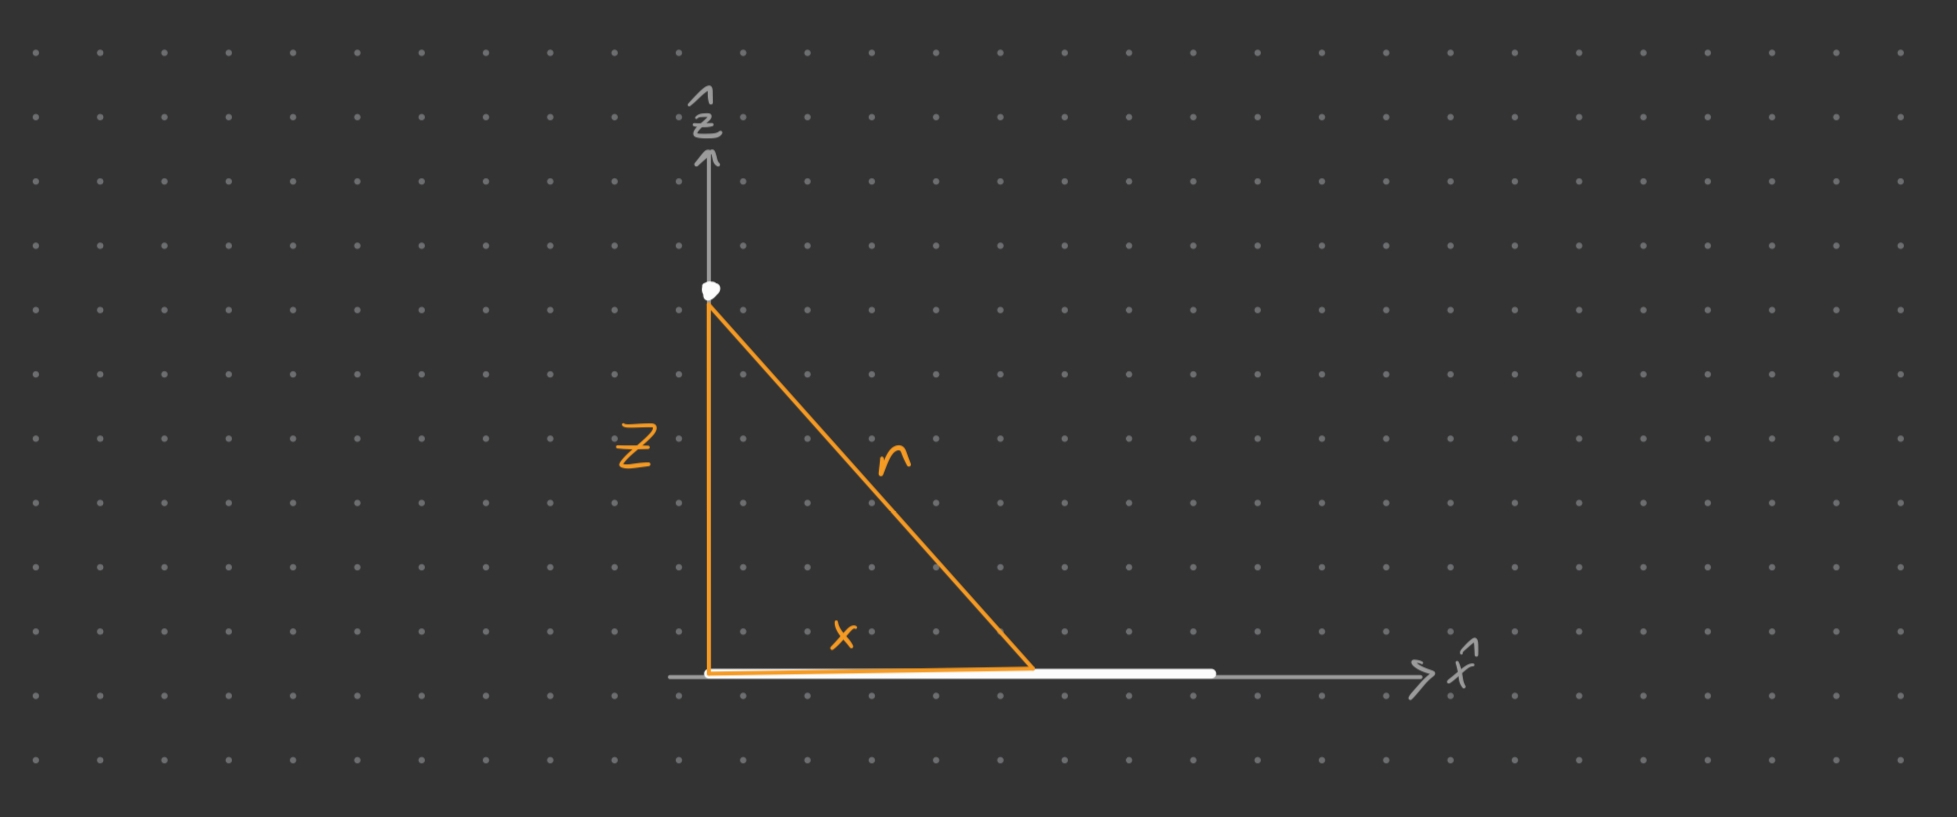
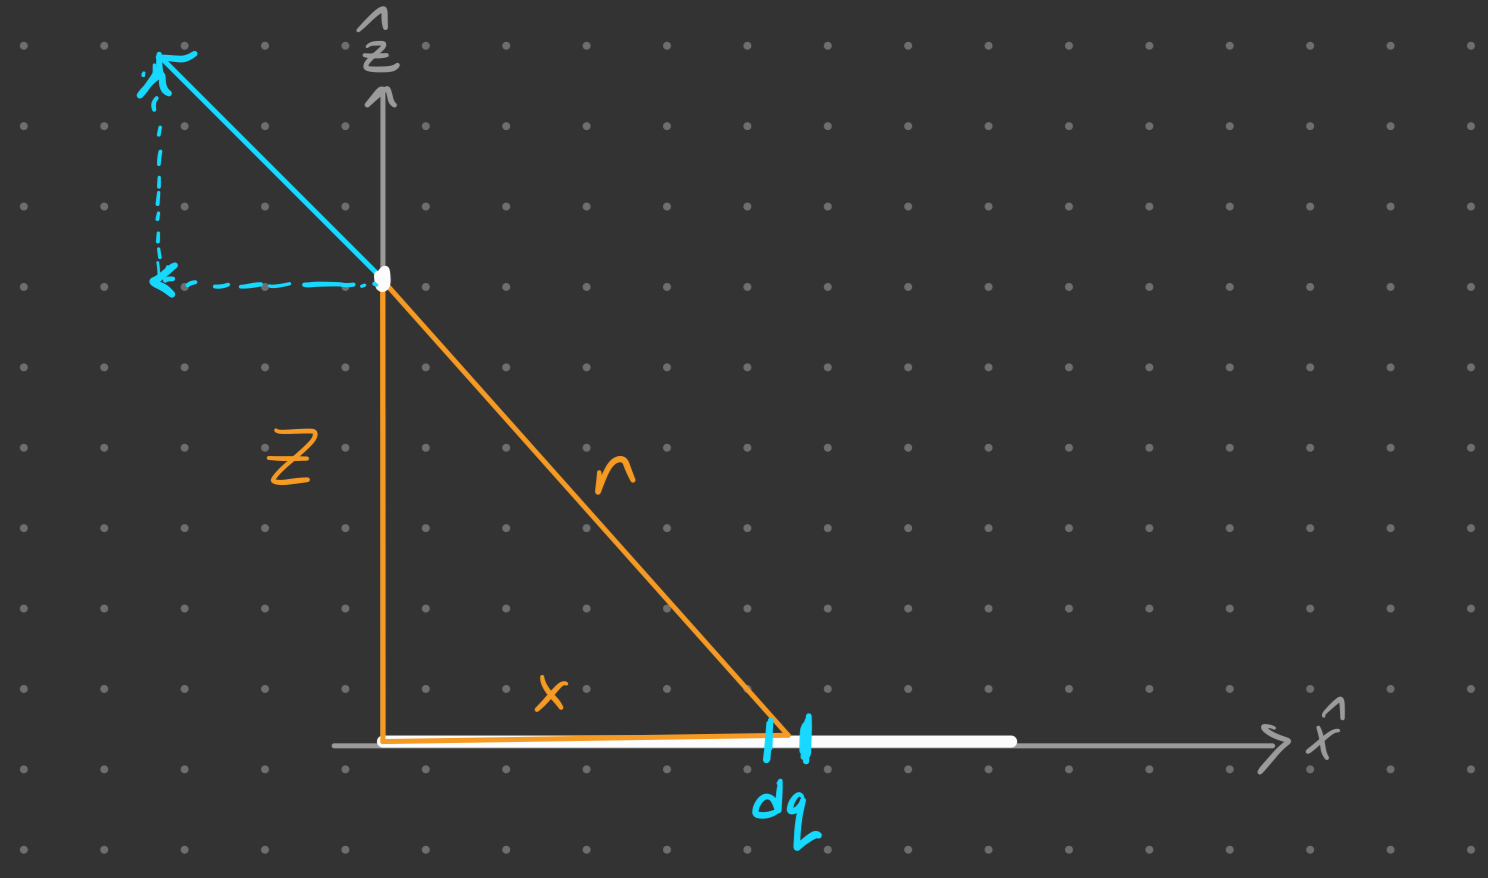
more 2.3

diff --git a/_projects/griffiths_EM_4E/2_3.md b/_projects/griffiths_EM_4E/2_3.md
@@ -18,13 +18,15 @@ Disclaimer: My personal solution may differ from the actual, please use this as 
 <!----------------------------------------------------------->
 ## Part A
 
-So we start with the general form of electric field at a point $$r$$ away,
+We're dealing with a charge distribution here, instead of a single point charge. That means each little chuck of charge $$dq$$ is going to contribute a little to the overall electric field.
+
+What we want to do is add up all the little contributions to the electric field from each chuck. We can due this by writing Coulomb's law in integral form and integrating from one end $$x=0$$ to the other $$x=L$$,
 
 $$\begin{align*} 
-\mathbf{E}=\frac{1}{4\pi\epsilon_{0}}\frac{q}{r^2}\hat{x}. \tag{1} \label{1}
-\end{align*}$$
+\mathbf{E}=\frac{1}{4\pi\epsilon_{0}} \int_0^L \frac{dq}{r^2}\hat{r}.\tag{1} \label{1}
+\end{align*}$$ 
 
-This is a continuous charge distribution, so our $$q=\lambda / L$$. We're going to need to calculate the electric field from one end of the line segment to the other. When we do this $$r$$ varies. Let's get $$r$$ in a form that includes out given distances. We establish our $$x$$-axis as show below.
+Let's do something about the $$\hat{r}$$ and $$r$$. From inspection of the diagram below, we should expect the electric field to have some $$x$$ and $$z$$ component.
 
 <div class="row">
     <div class="col-sm mt-3 mt-md-0">
@@ -32,12 +34,23 @@ This is a continuous charge distribution, so our $$q=\lambda / L$$. We're going 
     </div>
 </div>
 
+Thus, we
+
+
+ The value of each $$dq$$ $$q=\lambda / L$$. We're going to need to calculate the electric field from one end of the line segment to the other. When we do this $$r$$ varies. Let's get $$r$$ in a form that includes out given distances. We establish our $$x$$-axis as show below.
+
+
 From this geometry, we can see that,
 
 $$\begin{align*} 
-r=\sqrt{d^2+x^2}. \tag{2} \label{2}
+r=\sqrt{d^2+x^2}.
 \end{align*}$$
 
+With this relation, equation \ref{1} becomes 
+
+$$\begin{align*} 
+\mathbf{E}=\frac{1}{4\pi\epsilon_{0}}\frac{q}{\left( \sqrt{d^2+x^2} \right)^2}\hat{r}. 
+\end{align*}$$
 
 
 <!----------------------------------------------------------->
